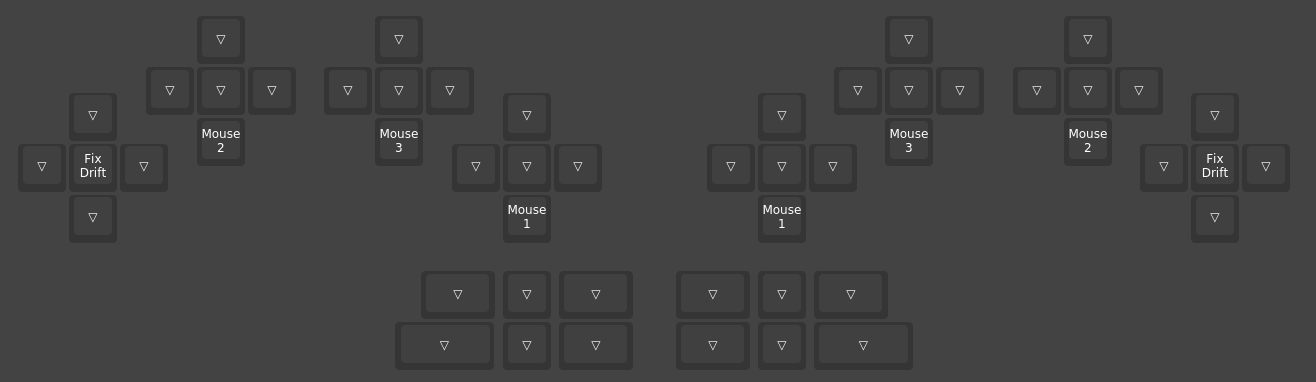
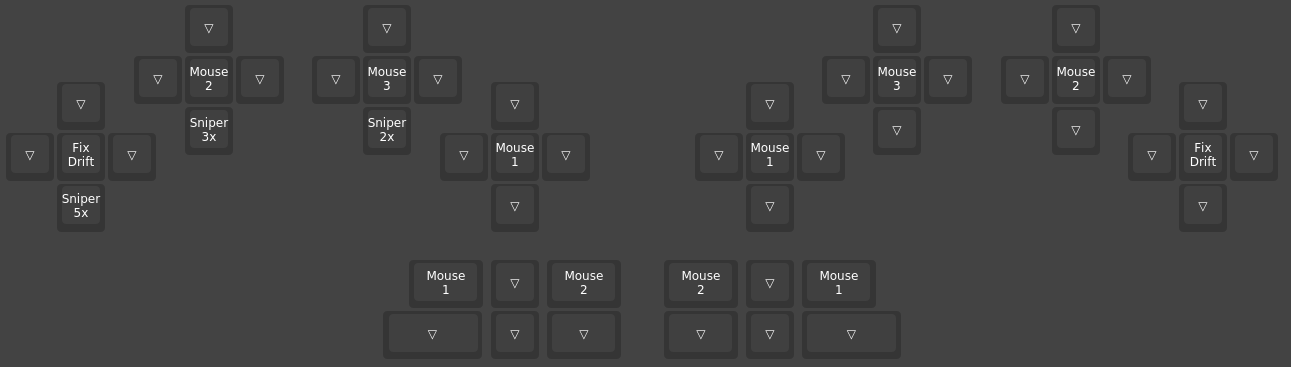
Update pointing device docs for current release
This supersedes #85.

diff --git a/keyboards/svalboard/docs/pointing_devices.md b/keyboards/svalboard/docs/pointing_devices.md
@@ -25,10 +25,9 @@ The Svalboard supports up to one pointing device on each side.
 ### Current Options
 
 * Trackball (pmw3389)
-![A trackball, mounted on the right half of a Svalboard.](images/trackball.jpg)
+  ![A trackball, mounted on the right half of a Svalboard.](images/trackball.jpg)
 
-* Trackpoint
-![A trackpoint, in isolation.](images/trackpoint.jpg)
+* Trackpoint ![A trackpoint, in isolation.](images/trackpoint.jpg)
 
 ### Deprecated Options
 
@@ -47,10 +46,13 @@ seem to move the cursor with a slow update speed.
 ## Automouse Layer
 
 When you move a pointing device, the Svalboard will automatically activate a
-layer intended for mouse keys. This layer (by default) provides mouse buttons
-on the south keys, with index for left-click, ring for right-click, and middle
-for middle-click. Additionally, trackpoint calibration is provided on pinky
-center.
+layer intended for mouse keys. This layer (by default) provides mouse buttons on
+the center keys, with index for left-click, ring for right-click, and middle for
+middle-click. Additionally, trackpoint calibration is provided on pinky center.
+
+The left-hand south keys have "sniper" keys, which may be held to temporarily
+decrease the sensitivity of the pointer. Additionally, left- and right-click are
+duplicated on the thumb pad/nail keys, respectively.
 
 ![A screenshot from Vial showing the aforementioned layer](images/mouse_layer.png)
 
@@ -58,44 +60,58 @@ center.
 
 ### By Button Press
 
-Hitting any key not on a short list of "mouse-related" keys will automatically
-leave the automouse layer. By default, this means hitting most any other key on
-the Svalboard that isn't mapped on the automouse layer, since the remaining keys
-are "transparent" (and will thus press the key on the next-highest active
-layer).
+Hitting any of the following keys (note that unmapped keys are included)
+automatically leaves the automouse layer. By default, this means hitting most
+any other key on the Svalboard that isn't mapped on the automouse layer, since
+the remaining keys are "transparent".
 
-The following keys will *not* cause the automouse layer to deactivate:
+The following keys will cause the automouse layer to deactivate:
 
-* Mouse Buttons (`KC_BTN1`, `KC_BTN2`, `KC_BTN3`, `KC_BTN4`, `KC_BTN5`)
-* Mouse Scrollwheel Up/Down/Right/Left (`KC_WH_U`, `KC_WH_D`, `KC_WH_R`,
-  `KC_WH_L`)
-* Modifiers (Shift, Control, Alt, etc.) (`KC_LSFT`, `KC_RSFT`, `KC_LCTL`,
-  `KC_RCTL`, `KC_LALT`, `KC_RALT`, `KC_LGUI`, `KC_RGUI`)
-* Scroll Toggle/Hold (`SV_LEFT_SCROLL_TOGGLE`, `SV_RIGHT_SCROLL_TOGGLE`,
-  `SV_LEFT_SCROLL_HOLD`, `SV_RIGHT_SCROLL_HOLD`)
-* "Sniper" Keys (`SV_SNIPER_2`, `SV_SNIPER_3`, `SV_SNIPER_5`)
-* Trackpoint Calibration (`SV_RECALIBRATE_POINTER`)
+* An unassigned or transparent key (`KC_NO` or `KC_TRNS`)
+* Any key that permanently changes the state of the Svalboard, i.e.
+  * Keys that change pointer DPI (`SV_LEFT_DPI_INC`, `SV_LEFT_DPI_DEC`,
+    `SV_RIGHT_DPI_INC`, `SV_RIGHT_DPI_DEC`)
+  * Keys that toggle a side's scroll state (`SV_LEFT_SCROLL_TOGGLE`,
+    `SV_RIGHT_SCROLL_TOGGLE`)
+  * Toggling achordion (`SV_TOGGLE_ACHORDION`)
+  * Changing the automouse layer timer (`SV_MH_CHANGE_TIMEOUTS`)
 
 #### By Timeout
 
 There is also a timeout period for the automouse layer, that exits the layer if
-no pointing device has moved within that period. By default, this timer is
-infinite, meaning that it will never exit. See [Changing The
-Timeout](#changing-the-timeout) for more info.
+the following are true:
+
+* No pointing device has moved within the timer period.
+* No key on the automouse layer has been pressed within the timer period.
+* No key on the automouse layer is being held.
+
+By default, this timer is 500ms. See
+[Changing The Timeout](#changing-the-timeout) for more info.
 
 ### Editing The Automouse Layer
 
 To edit the buttons on this layer, simply edit the last layer (layer 15) in
 Vial.
 
+The following keys may be particularly useful on this layer:
+
+* Mouse Buttons (`KC_BTN1`, `KC_BTN2`, `KC_BTN3`, `KC_BTN4`, `KC_BTN5`)
+* Mouse Scrollwheel Up/Down/Right/Left (`KC_WH_U`, `KC_WH_D`, `KC_WH_R`,
+  `KC_WH_L`)
+* Modifiers (Shift, Control, Alt, etc.) (`KC_LSFT`, `KC_RSFT`, `KC_LCTL`,
+  `KC_RCTL`, `KC_LALT`, `KC_RALT`, `KC_LGUI`, `KC_RGUI`)
+* Scroll Toggle/Hold (`SV_SCROLL_TOGGLE`, `SV_SCROLL_HOLD`)
+* "Sniper" Keys (`SV_SNIPER_2`, `SV_SNIPER_3`, `SV_SNIPER_5`)
+* Trackpoint Calibration (`SV_RECALIBRATE_POINTER`)
+
 ### Changing The Timeout
 
-The automouse layer timer may be cycled through three settings: 300ms, 500ms,
-and infinite (in that order, wrapping around). To cycle to the next timeout
-setting, bind the key `Mouse Key Timer` (`SV_MH_CHANGE_TIMEOUTS`), found in the
-`User` tab in Vial, somewhere on your layout, and press it. *The Svalboard
-remembers this setting, so you won't need to do it every time you plug in your
-keyboard.*
+The automouse layer timer may be cycled through four settings: 300ms, 500ms,
+800ms, and infinite (in that order, wrapping around). To cycle to the next
+timeout setting, bind the key `Mouse Key Timer` (`SV_MH_CHANGE_TIMEOUTS`), found
+in the `User` tab in Vial, somewhere on your layout, and press it. *The
+Svalboard remembers this setting, so you won't need to do it every time you plug
+in your keyboard.*
 
 ![The "Mouse Key Timer" key in the "User" tab of Vial.](images/mouse_key_timer.png)
 
@@ -111,9 +127,8 @@ of the trackball.
 
 ![The "Left/Right DPI +/-" keys in the "User" tab of Vial.](images/dpi_keys.png)
 
-Available DPIs are: 200, 400, 800, 1200, 1600, 2400. They do **not** wrap
-around (i.e. pressing the button to increase DPI will never go from 2400 to
-200).
+Available DPIs are: 200, 400, 800, 1200, 1600, 2400. They do **not** wrap around
+(i.e. pressing the button to increase DPI will never go from 2400 to 200).
 
 *The Svalboard remembers this setting, so you won't need to do it every time you
 plug in your keyboard.*
@@ -142,17 +157,19 @@ One popular use of dual pointing devices is to use the left hand to scroll and
 the right to move the cursor.
 
 Either (or both) pointing devices may be set to act as a scrollwheel instead of
-moving the cursor. Bind one or more of the left/right scroll toggle/hold keys in
-the `User` tab of Vial (`SV_LEFT_SCROLL_TOGGLE`, `SV_RIGHT_SCROLL_TOGGLE`,
-`SV_LEFT_SCROLL_HOLD`, `SV_RIGHT_SCROLL_HOLD`) somewhere on your layout. These
-keys may be used to either permanently (for toggle) or temporarily (for hold)
-make a pointing device scroll instead of moving the cursor.
+moving the cursor. Bind one or more of the scroll toggle/hold keys in the `User`
+tab of Vial (`SV_SCROLL_TOGGLE`, `SV_SCROLL_HOLD`, `SV_LEFT_SCROLL_TOGGLE`,
+`SV_RIGHT_SCROLL_TOGGLE`) somewhere on your layout. These keys may be used to
+either permanently (for toggle) or temporarily (for hold) make one or both
+pointing devices scroll instead of moving the cursor.
 
-![The "Scroll Left/Right Toggle/Hold" keys in the "User" tab of
+![The "Scroll Toggle/Hold" keys in the "User" tab of
 Vial.](images/scroll_keys.png)
 
-*The Svalboard remembers this setting, so you won't need to do it every time you
-plug in your keyboard.*
+*The Svalboard remembers left/right scroll toggles, so you won't need to do it
+every time you plug in your keyboard. The both scroll toggle does not persist
+through power state; if you want both sides to permanently scroll, then use left
+and right toggle separately.*
 
 ## Trackpoint Calibration/Drift
 
@@ -176,12 +193,12 @@ in [trackpoint.c](../trackpoint/trackpoint.c) and recompiling the firmware.
 The value on line 73:
 
 ```c
- PS2_MOUSE_SEND(0x15, "pts: 0x15");  // Experiment with this if it isn't enough.
+PS2_MOUSE_SEND(0x15, "pts: 0x15");  // Experiment with this if it isn't enough.
 ```
 
 can be adjusted upwards slightly, for instance to `0x16` or `0x17` (it is
 hexadecimal). **Make certain to adjust both instances of `0x15`.**
 
-If you're not comfortable with this process, ask for help in [the
-Discord](https://svalboard.com/discord) or find more options at
+If you're not comfortable with this process, ask for help in
+[the Discord](https://svalboard.com/discord) or find more options at
 [https://svalboard.com/pages/support](https://svalboard.com/pages/support).
